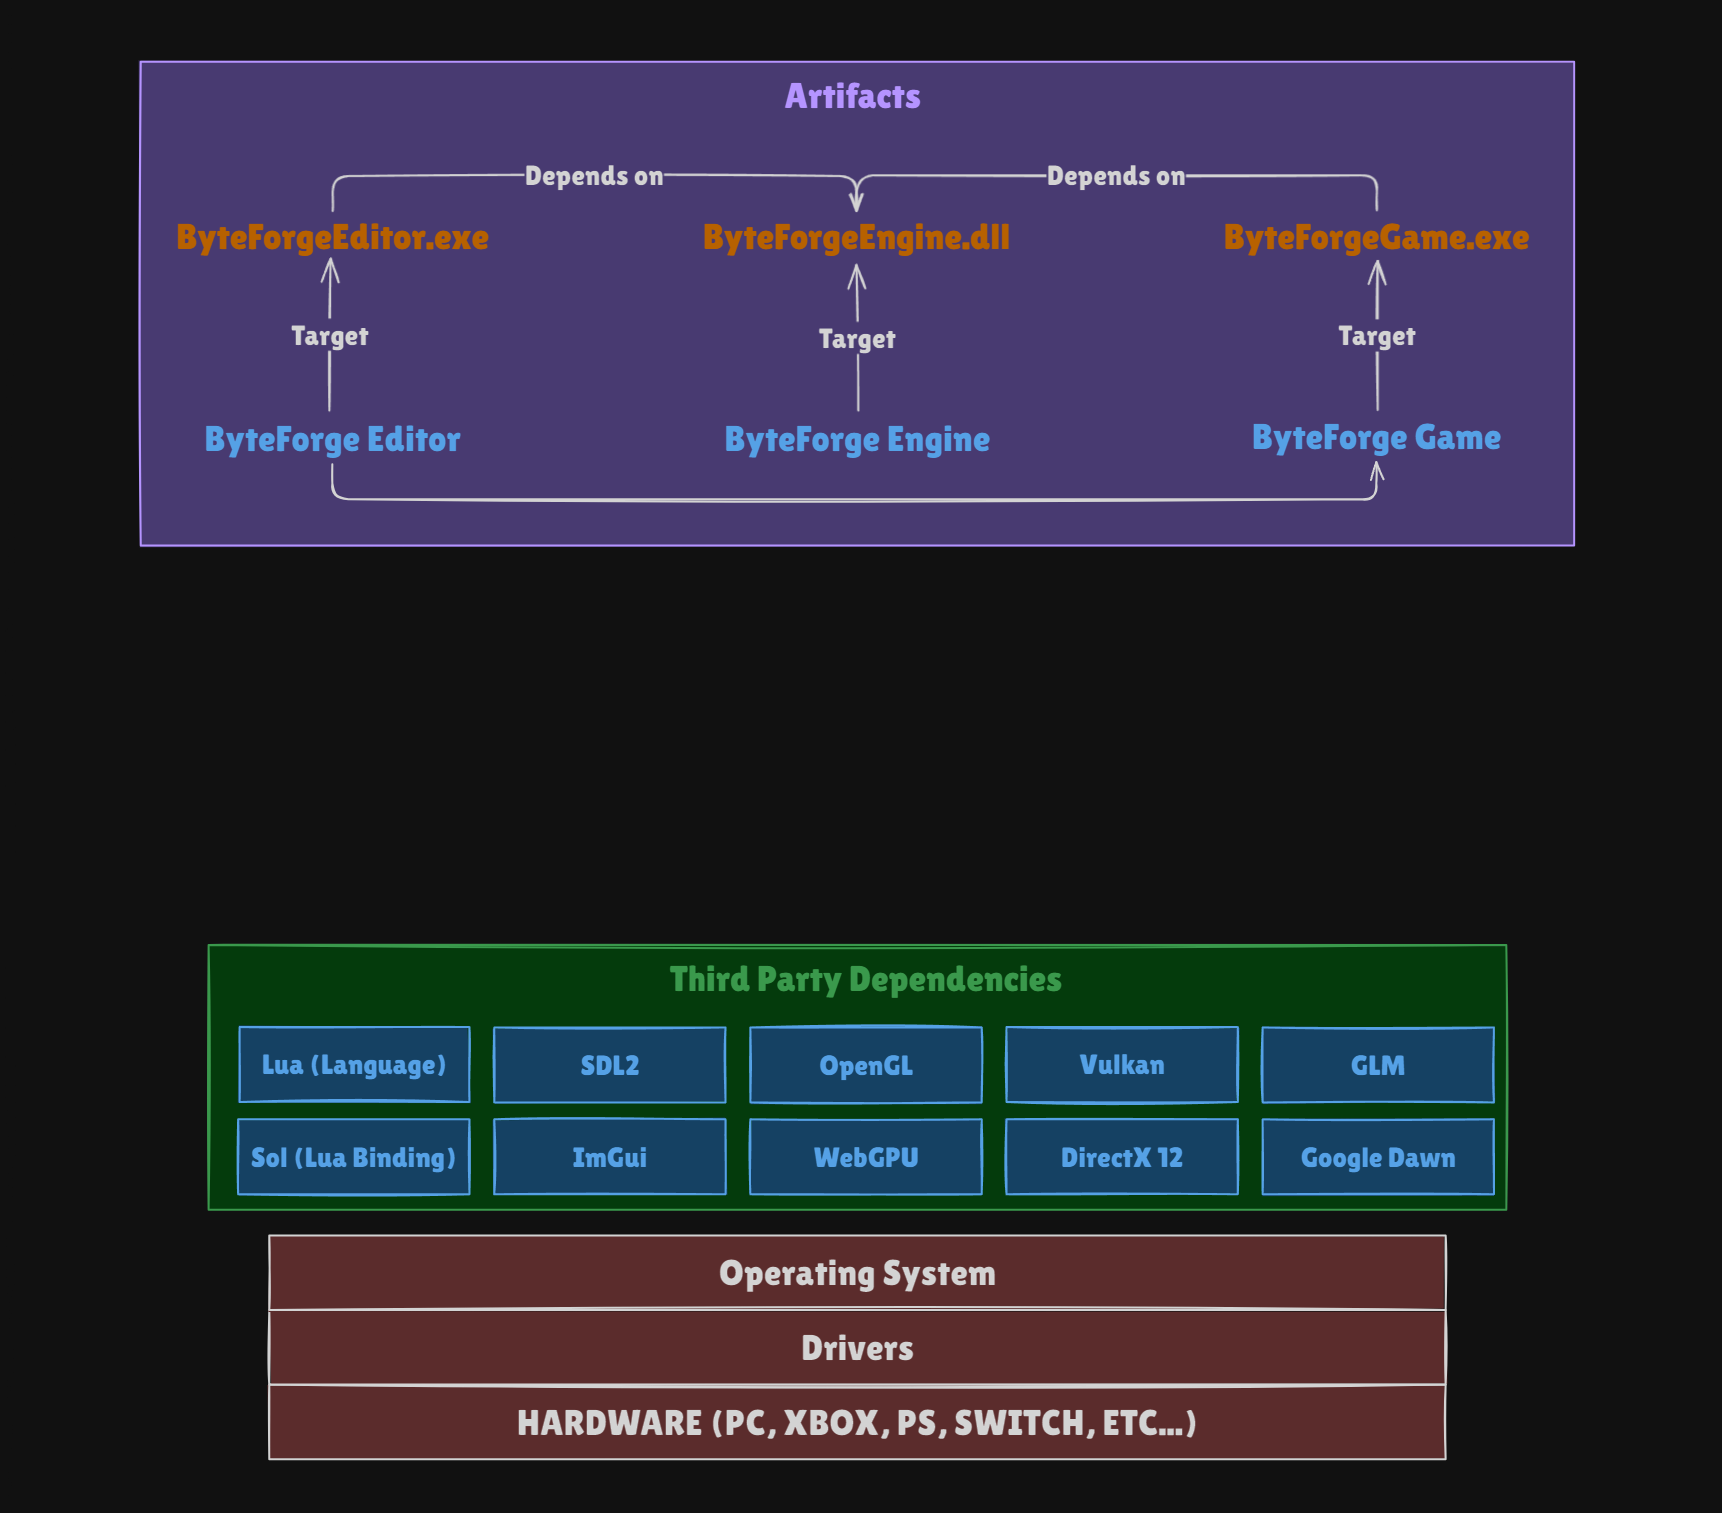
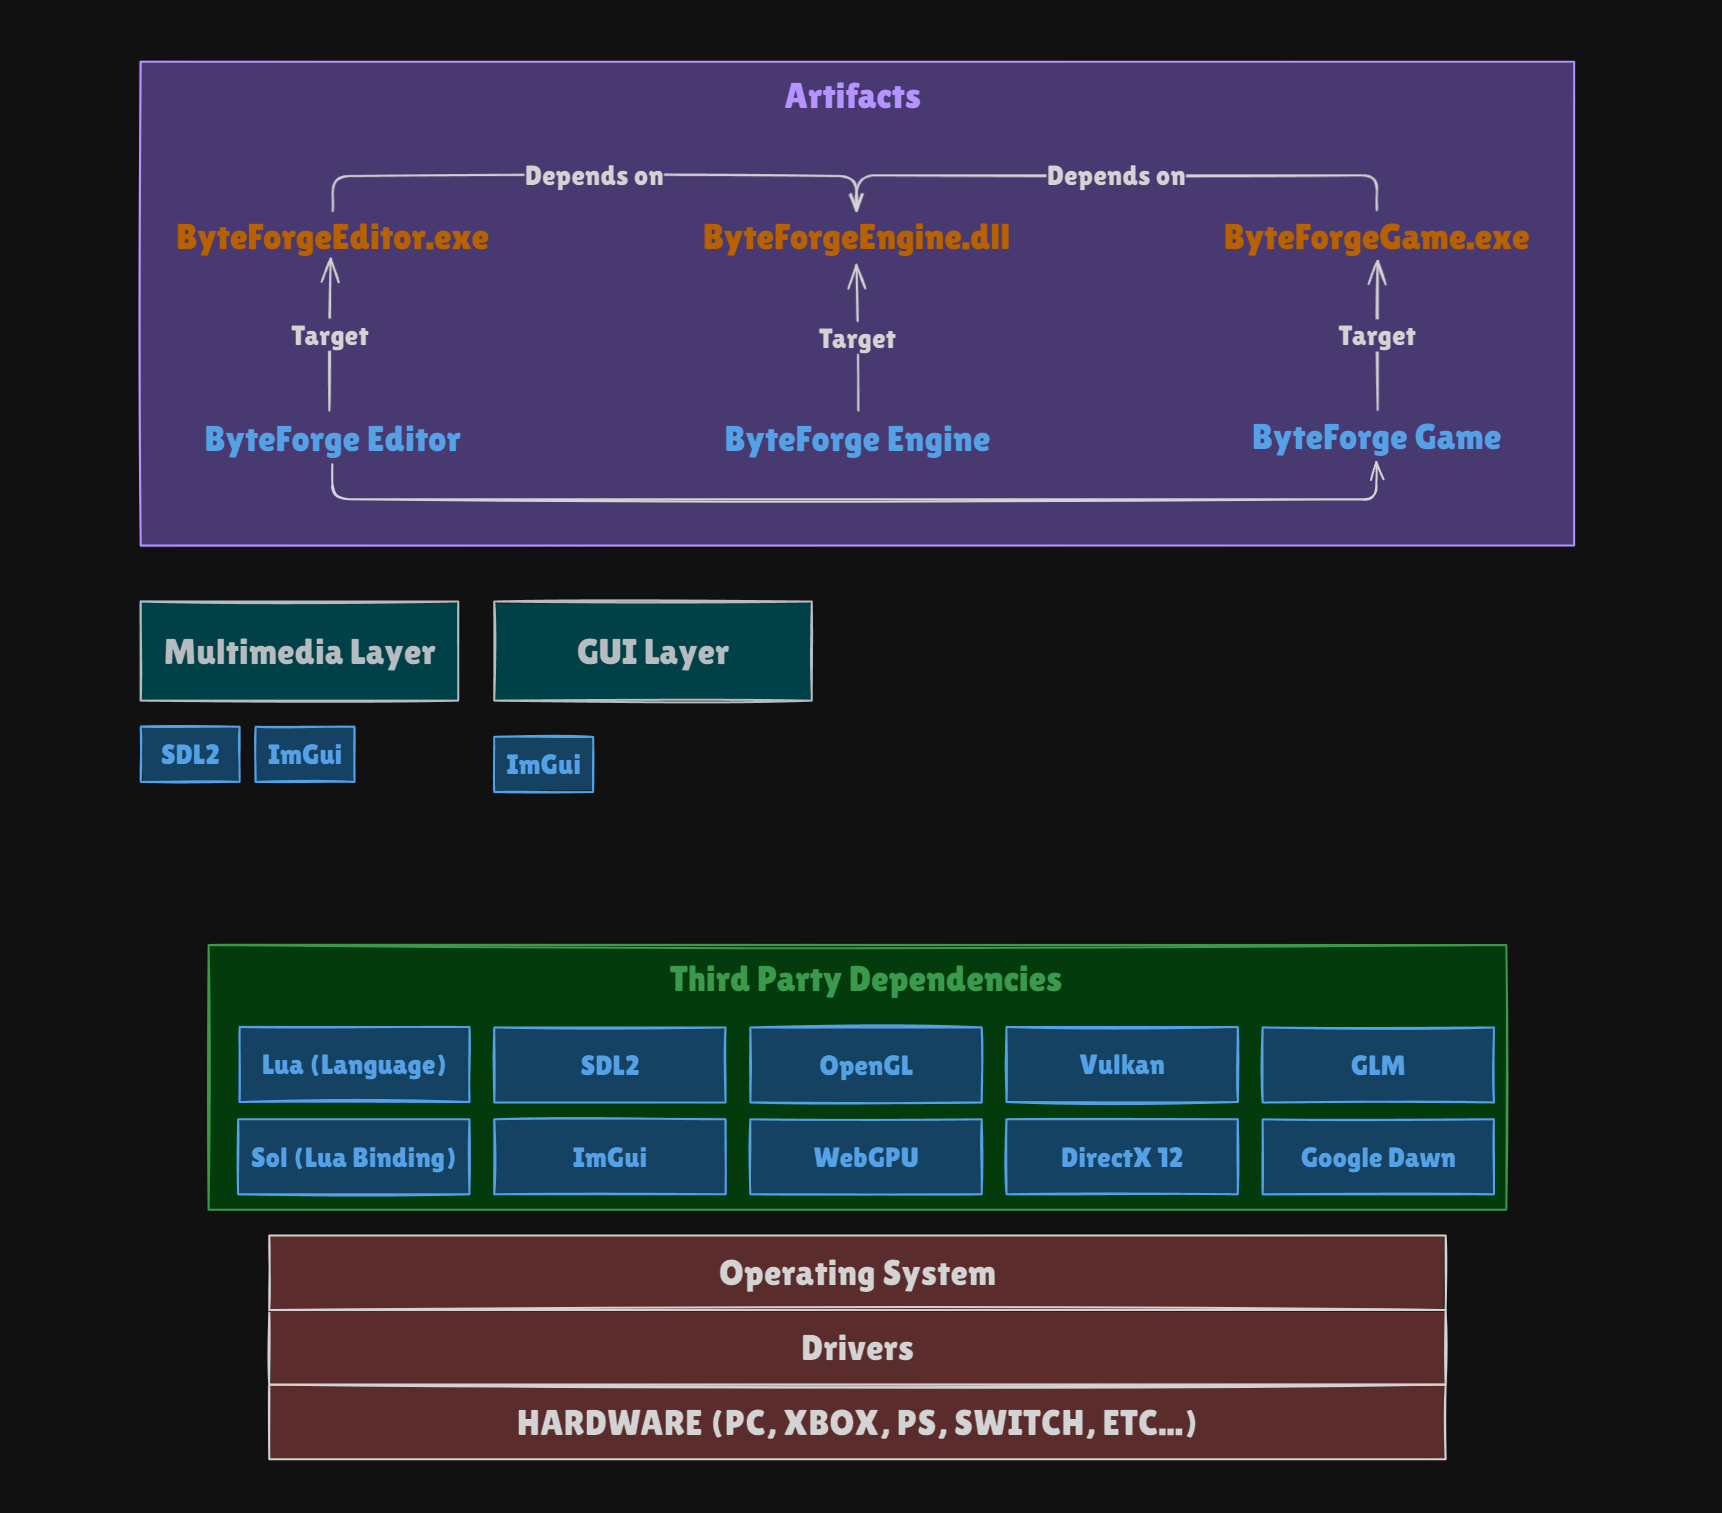
Remove unused imports and doc update

Changed region(s): [[0.0616, 0.3728, 0.4925, 0.5281]]

diff --git a/libraries/gui_layer/source/gui_context.hpp b/libraries/gui_layer/source/gui_context.hpp
@@ -1,7 +1,5 @@
 #pragma once
 
-#include <SDL2/SDL.h>
-
 #include <imgui/imgui.h>
 #include <imgui/imgui_impl_sdl2.h>
 #include <imgui/imgui_impl_sdlrenderer2.h>
